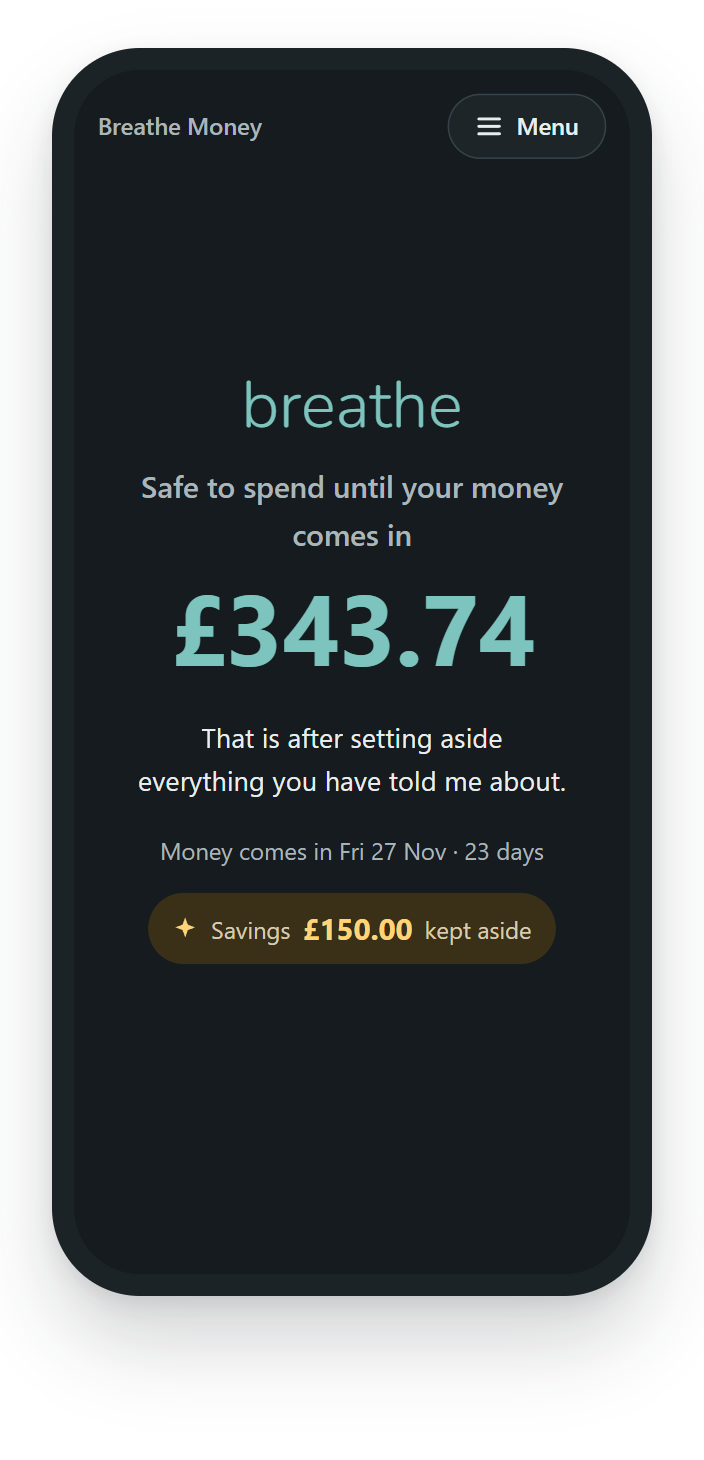
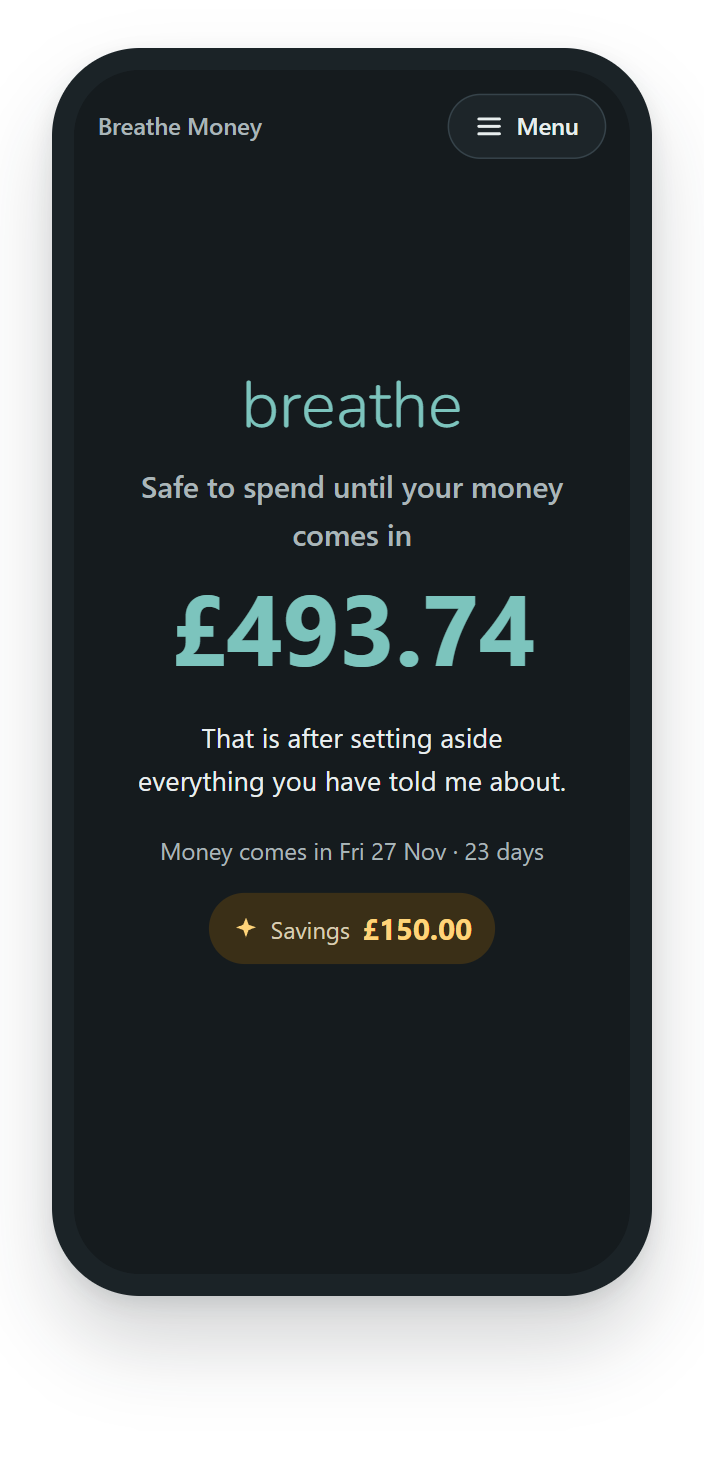
Refresh README pictures for separate savings

Changed region(s): [[0.1875, 0.5856, 0.8125, 0.6781], [0.3125, 0.4007, 0.5, 0.4623]]

diff --git a/README.md b/README.md
@@ -10,7 +10,7 @@
 > **Breathe will never be about making money. It will always be about helping people.**
 
 <p align="center">
-  <img src="docs/images/hero.png" alt="Breathe Money: How much can I spend until my money comes in? One calm number, after your bills, food, travel and savings. Shown on three phones in light, dark and plum colours" width="100%">
+  <img src="docs/images/hero.png" alt="Breathe Money: How much can I spend until my money comes in? One calm number, after your bills, food and travel. Shown on three phones in light, dark and plum colours" width="100%">
 </p>
 
 <p align="center">
@@ -51,7 +51,7 @@ It is a personal project, built by someone who struggles with these things too. 
 
 ## Breathe Money in 15 seconds
 
-<picture><source media="(prefers-color-scheme: dark)" srcset="docs/images/demo-dark.gif"><img align="left" width="36%" src="docs/images/demo.gif" alt="A short clip: the home screen shows £343.74. The Menu opens, the account balance is changed to £1,450.00, and the number at the bottom updates while typing. Back on the home screen it now says £509.14, then the app switches to dark mode"></picture>
+<picture><source media="(prefers-color-scheme: dark)" srcset="docs/images/demo-dark.gif"><img align="left" width="36%" src="docs/images/demo.gif" alt="A short clip: the home screen shows £493.74. The Menu opens, the account balance is changed to £1,450.00, and the number at the bottom updates while typing. Back on the home screen it now says £659.14, then the app switches to dark mode"></picture>
 
 ### One question, one calm answer
 
@@ -81,7 +81,7 @@ No account, no download.
 <p align="center">
   <picture>
     <source media="(prefers-color-scheme: dark)" srcset="docs/images/row-number-dark.png">
-    <img src="docs/images/row-number.png" alt="Three screens: just the number (Safe to spend until your money comes in, £343.74); the Menu, where everything else lives; and Where this number comes from, with every pound explained line by line" width="100%">
+    <img src="docs/images/row-number.png" alt="Three screens: just the number (Safe to spend until your money comes in, £493.74); the Menu, where everything else lives; and Where this number comes from, with every pound explained line by line" width="100%">
   </picture>
 </p>
 
